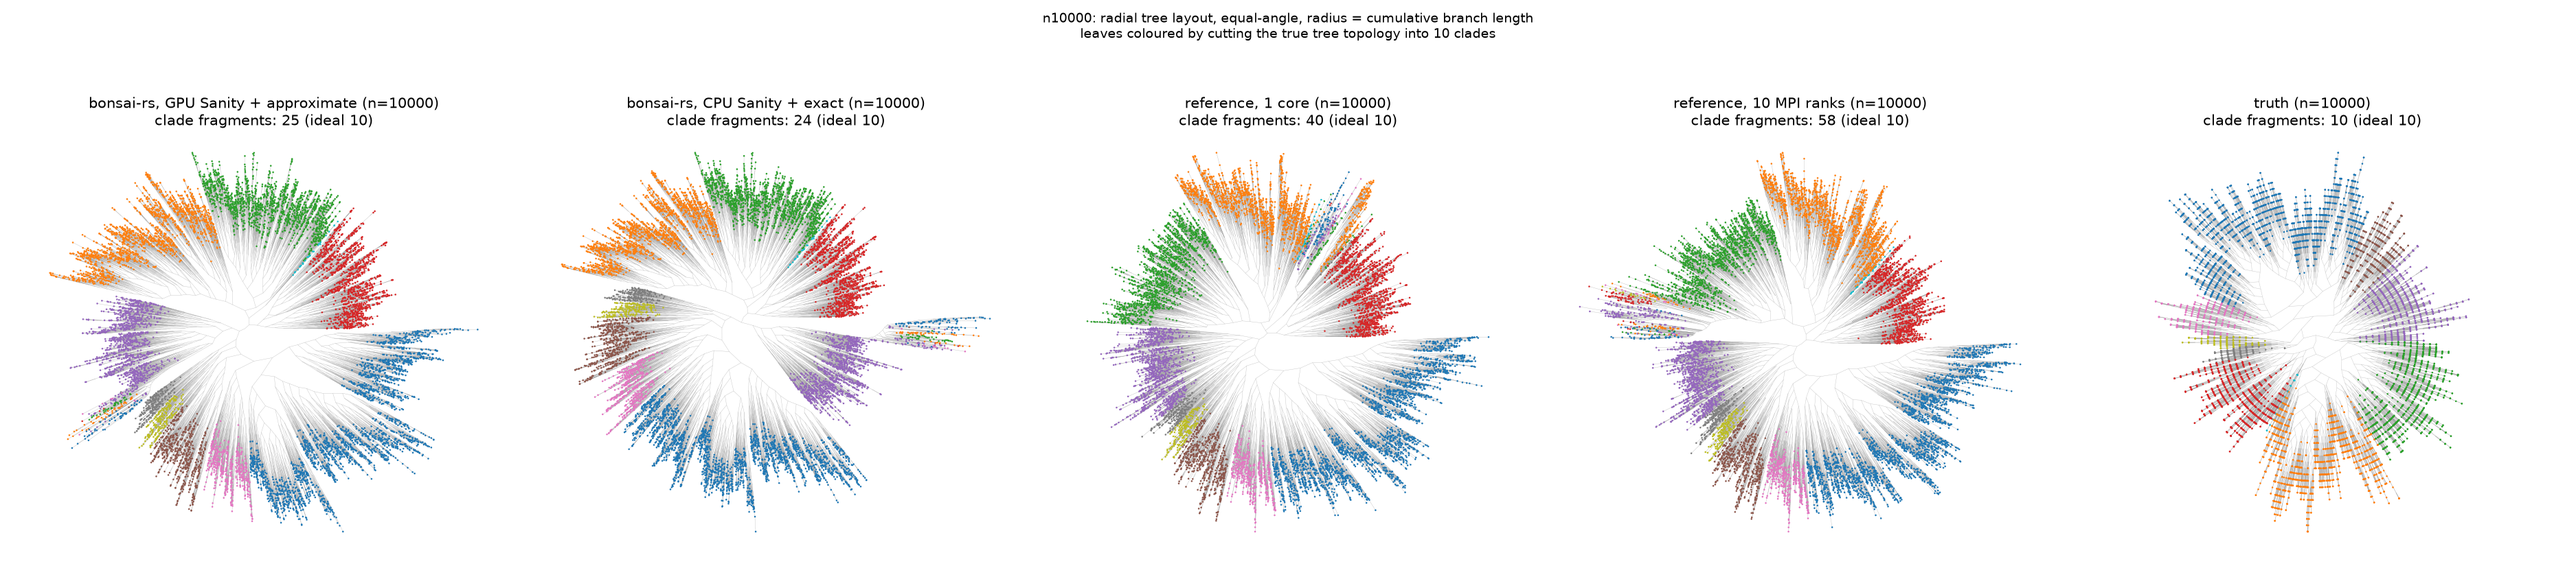
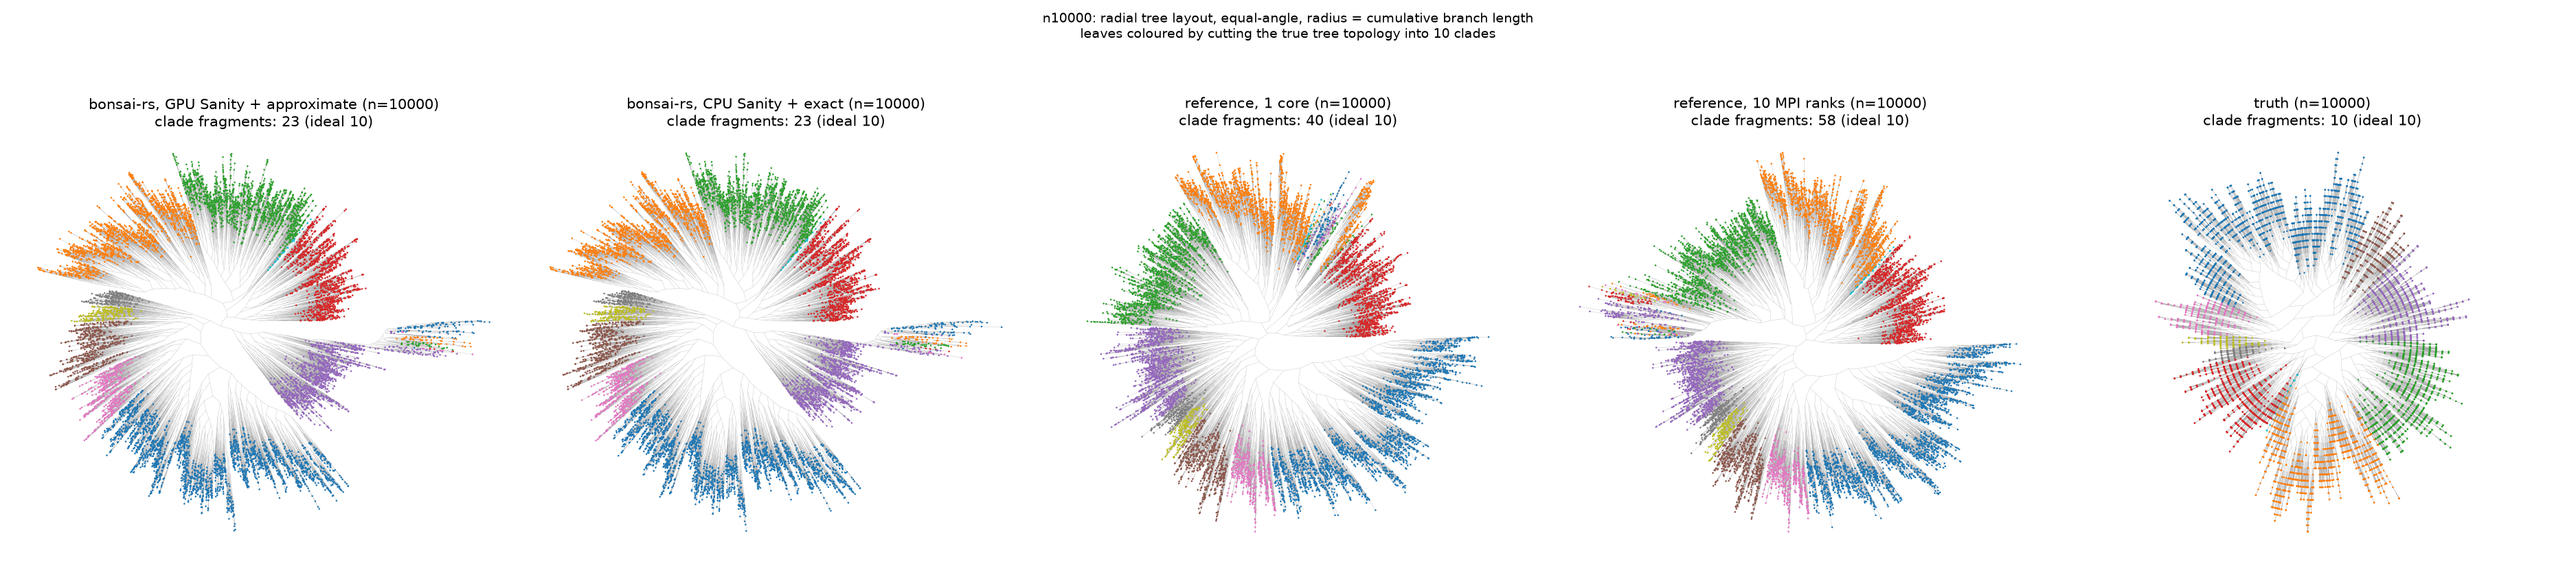
docs: new benchmarks with sanity 0.3.0

diff --git a/docs/COMPARISON.md b/docs/COMPARISON.md
@@ -93,7 +93,7 @@ recovery are what it's for.
 ## Counts to tree
 
 Raw UMIs to finished tree on **one node**: ten-core M1 Max, 64 GB, each run
-alone. The Rust route is 0.2.0, 2026-09-29; the original route is from
+alone. The Rust route is 0.2.2 with `sanity-sc-rs` 0.3.0, 2026-09-30; the original route is from
 2026-09-25. The published implementation can run MPI across nodes; nothing here
 speaks to a cluster.
 
@@ -109,36 +109,36 @@ Sanity, seconds:
 
 | cells | original | Rust, CPU | Rust, GPU |
 |---|---|---|---|
-| 512 | 71.9 | 31.0 | 0.5 |
-| 512 s32 | 72.1 | 30.6 | 0.4 |
-| 5,000 | 766.9 | 286.0 | 3.6 |
-| 10,000 | 1,604.7 | 560.2 | 6.8 |
+| 512 | 71.9 | 4.6 | 0.7 |
+| 512 s32 | 72.1 | 4.4 | 0.5 |
+| 5,000 | 766.9 | 28.1 | 2.0 |
+| 10,000 | 1,604.7 | 56.4 | 3.5 |
 
 Bonsai, seconds:
 
 | cells | published, 1 core | published, 10 ranks | Rust, exact search | Rust, approximate search |
 |---|---|---|---|---|
-| 512 | 371.7 | 170.2 | 4.4 | 2.1 |
-| 512 s32 | 371.0 | | 4.9 | 2.4 |
-| 5,000 | 4,868 | 3,208.6 | 86.7 | 29.5 |
-| 10,000 | 16,062 | 9,439.3 | 417.2 | 71.8 |
+| 512 | 371.7 | 170.2 | 4.2 | 1.9 |
+| 512 s32 | 371.0 | | 4.5 | 2.2 |
+| 5,000 | 4,868 | 3,208.6 | 100.7 | 29.7 |
+| 10,000 | 16,062 | 9,439.3 | 469.9 | 73.2 |
 
 Exact is SPR and NNI as the paper specifies them; approximate is the default
 (see the README). Rust search times are on CPU-Sanity input. On GPU-Sanity
-input, exact took 82.2 s and 406.7 s at 5,000 and 10,000, approximate 28.8 s
-and 75.5 s. Published single-core times at 5,000 and 10,000 are the harness's,
+input, exact took 100.2 s and 438.4 s at 5,000 and 10,000, approximate 27.9 s
+and 71.0 s. Published single-core times at 5,000 and 10,000 are the harness's,
 reproduced within half a per cent on 2026-09-14; the rest are reruns. The
 original route also spends 2.0, 0.8, 29.7 and 66.5 s on gene selection, and the
-Rust route 0.1 to 2.0 s on the S5 conversion, both included below.
+Rust route 0.1 to 1.7 s on the S5 conversion, both included below.
 
 End to end, seconds:
 
 | cells | original, 1 core | original, 10 ranks | Rust CPU + exact | Rust GPU + approximate | speed-up over the original on 1 core / 10 ranks |
 |---|---|---|---|---|---|
-| 512 | 445.6 | 244.1 | 35.5 | 2.7 | 166x / 91x |
-| 512 s32 | 443.9 | | 35.5 | 2.7 | 162x / |
-| 5,000 | 5,664.2 | 4,005.2 | 373.9 | 33.4 | 170x / 120x |
-| 10,000 | 17,733.2 | 11,110.5 | 979.5 | 83.9 | 211x / 132x |
+| 512 | 445.6 | 244.1 | 8.8 | 2.7 | 164x / 90x |
+| 512 s32 | 443.9 | | 8.9 | 2.9 | 156x / |
+| 5,000 | 5,664.2 | 4,005.2 | 129.6 | 31.0 | 183x / 129x |
+| 10,000 | 17,733.2 | 11,110.5 | 527.9 | 76.2 | 233x / 146x |
 
 Quality against the generating tree. Recovery here uses all 17,499 genes' true
 positions, not the selected genes of the headline table:
@@ -146,9 +146,9 @@ positions, not the selected genes of the headline table:
 | cells | original, 1 core | original, 10 ranks | Rust CPU + exact | Rust GPU + approximate |
 |---|---|---|---|---|
 | 512 | RF 146, 0.492 | RF 141, 0.496 | RF 137, 0.632 | RF 138, 0.631 |
-| 512 s32 | RF 240, 0.165 | | RF 241, 0.233 | RF 243, 0.222 |
-| 5,000 | RF 1,937, 0.352 | RF 2,016, 0.261 | RF 1,278, 0.573 | RF 1,292, 0.449 |
-| 10,000 | RF 5,149, 0.162 | RF 5,151, 0.226 | RF 2,636, 0.353 | RF 2,669, 0.265 |
+| 512 s32 | RF 240, 0.165 | | RF 241, 0.233 | RF 225, 0.232 |
+| 5,000 | RF 1,937, 0.352 | RF 2,016, 0.261 | RF 1,278, 0.570 | RF 1,285, 0.571 |
+| 10,000 | RF 5,149, 0.162 | RF 5,151, 0.226 | RF 2,634, 0.354 | RF 2,624, 0.392 |
 
 Published memory, peak RSS summed over processes: 543 MB, 2,965 MB, 5,686 MB at
 512, 5,000, 10,000 on one core; 3,009 MB, 10,033 MB, 18,737 MB with 10 ranks.
@@ -158,10 +158,10 @@ against 1,937 at 5,000, 5,151 against 5,149 at 10,000.
 
 Two cautions. Differences between the Rust Sanity paths and search modes sit
 inside the run-to-run spread ([performance](PERFORMANCE.md#how-much-one-real-data-run-says)).
-GPU input with approximate search is lowest at 5,000 and 10,000, 0.449 and
-0.265, but the same GPU input with exact search gives 0.570 and 0.384, and CPU
-input with approximate search 0.571 and 0.354. That's a basin, not the GPU
-making worse trees. The gaps to the published trees, over 600 splits from 5,000
+Across the four Sanity and search pairings recovery spans 0.401 to 0.571 at
+5,000 and 0.354 to 0.392 at 10,000, and the lowest is GPU input with exact
+search at 5,000 but CPU input with exact search at 10,000. That's a basin, not
+one Sanity path making worse trees. The gaps to the published trees, over 600 splits from 5,000
 up, are far outside it.
 
 Same trees drawn as in [What the trees look like](#what-the-trees-look-like):
@@ -171,9 +171,9 @@ pairs for every tree.
 | cells | GPU + approximate | CPU + exact | reference, 1 core | reference, 10 ranks |
 |---|---|---|---|---|
 | 512 | 13, 0.744 | 13, 0.745 | 15, 0.638 | 14, 0.643 |
-| 512 s32 | 18, 0.364 | 17, 0.374 | 19, 0.311 | |
-| 5,000 | 23, 0.591 | 24, 0.674 | 29, 0.500 | 36, 0.402 |
-| 10,000 | 25, 0.360 | 24, 0.444 | 40, 0.258 | 58, 0.323 |
+| 512 s32 | 17, 0.372 | 17, 0.374 | 19, 0.311 | |
+| 5,000 | 21, 0.673 | 23, 0.672 | 29, 0.500 | 36, 0.402 |
+| 10,000 | 23, 0.478 | 23, 0.444 | 40, 0.258 | 58, 0.323 |
 
 ![radial layouts at 10,000 cells, counts to tree](figures/n10000_e2e_tree_layout.png)
 

diff --git a/CHANGELOG.md b/CHANGELOG.md
@@ -1,5 +1,12 @@
 # Changelog
 
+## 0.2.2
+
+**Features**
+
+- Version bump of `sanity-sc-rs` to `"0.3.0"` with substantially improved
+  speeds.
+
 ## 0.2.1
 
 **Features**
